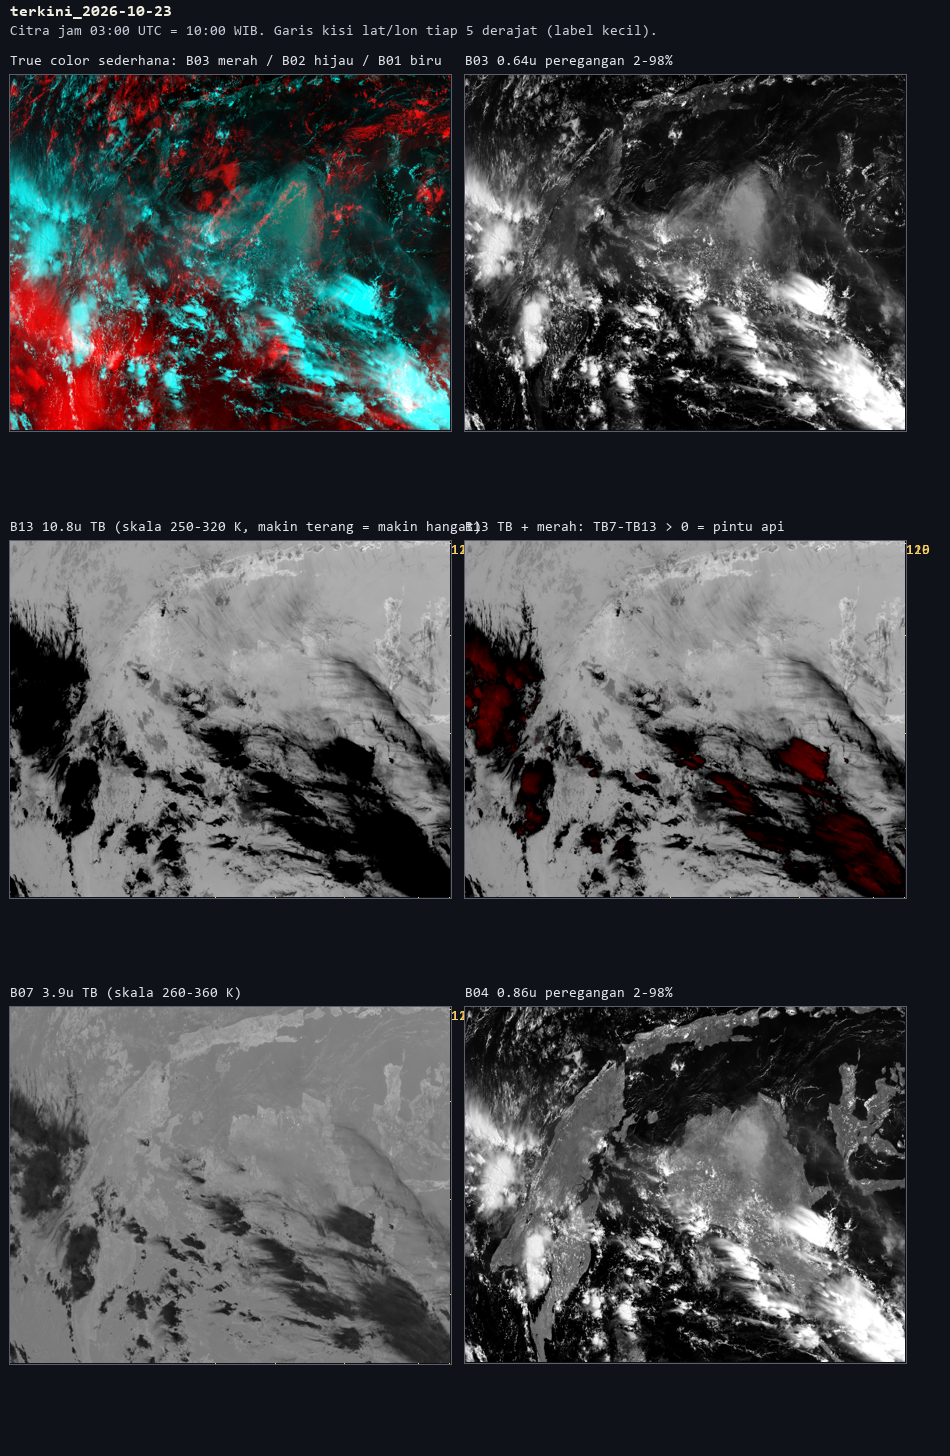
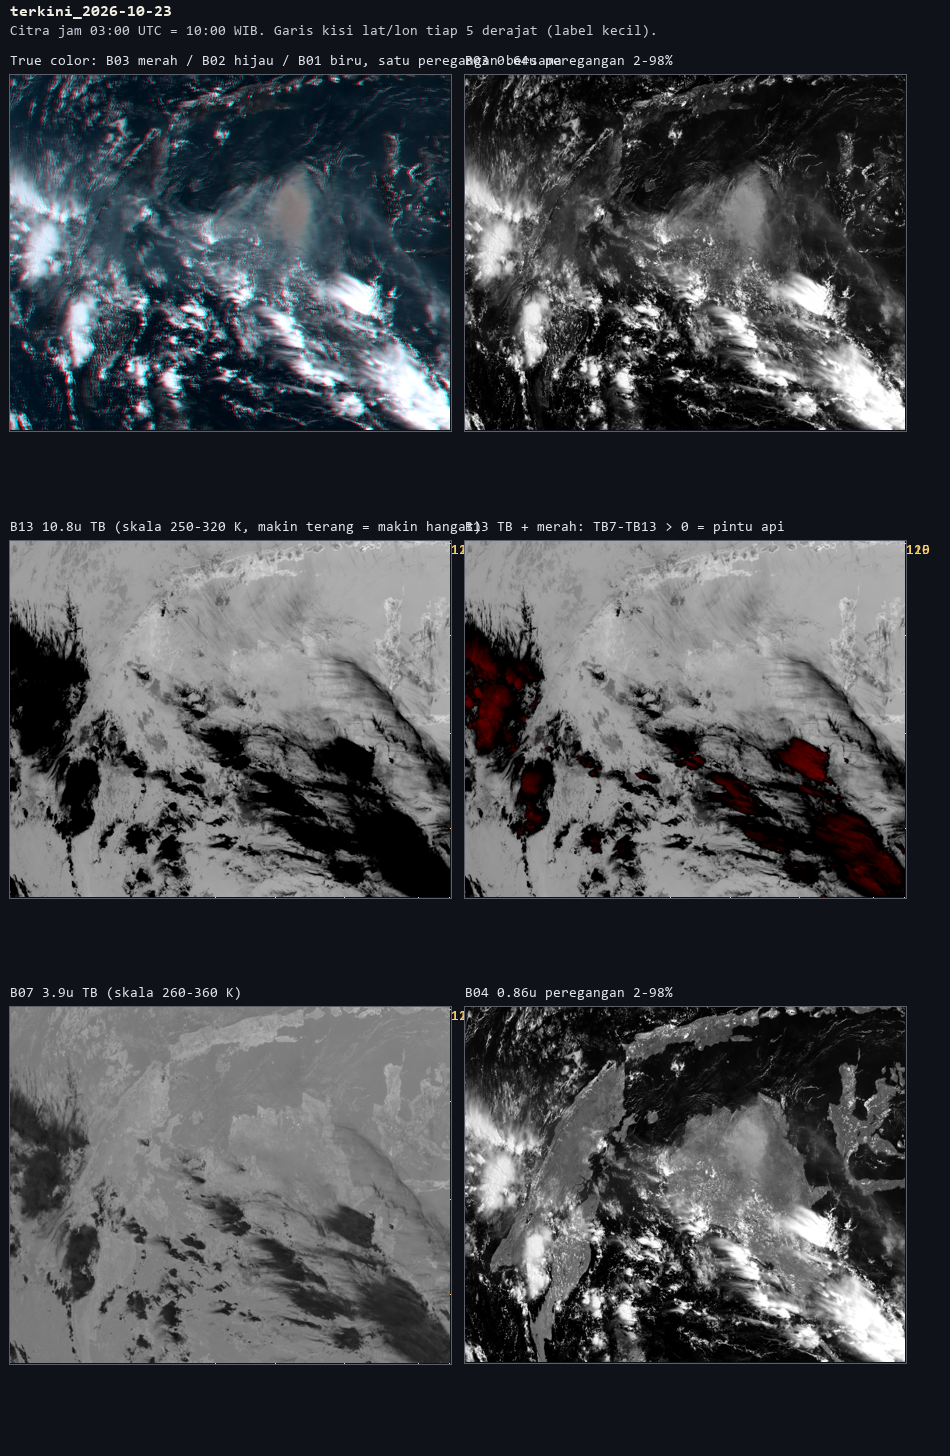
fix: komposit warna - setarakan grid kanal + satu peregangan bersama; TEMUAN changelog

Changed region(s): [[0.0, 0.0309, 0.4884, 0.3091]]

diff --git a/pipeline/olah_himawari_fm1.py b/pipeline/olah_himawari_fm1.py
@@ -207,17 +207,27 @@ def render_kasus(label, folder):
     grid13 = buat_grid(bands[13][0], px13 := buat_px(bands[13][0]), (0, bands[13][1].shape[0] - 1, 0, bands[13][1].shape[1] - 1, True))
     panels = []
     gambar_tc = None
+    # komposit warna: samakan grid dulu (B03 2026 = grid 2x lebih halus daripada B01/B02),
+    # lalu satu peregangan bersama utk ketiga kanal (bukan peregangan per band)
     if 3 in tables and 1 in tables and 2 in tables:
-        Rr = tables[3]
-        Gg = tables[2]
-        Bbv = tables[1]
-        hl = min(Rr.shape[0], Gg.shape[0], Bbv.shape[0]); hc = min(Rr.shape[1], Gg.shape[1], Bbv.shape[1])
-        arr_tc = (np.dstack([Rr[:hl, :hc], Gg[:hl, :hc], Bbv[:hl, :hc]]) * 255).astype(np.uint8)
-        gambar_tc = ("True color sederhana: B03 merah / B02 hijau / B01 biru", arr_tc)
+        th = max(bands[b][1].shape[0] for b in (1, 2, 3))
+        tc = max(bands[b][1].shape[1] for b in (1, 2, 3))
+        def ke_grid(arr):
+            if arr.shape == (th, tc):
+                return arr
+            return np.asarray(Image.fromarray(arr).resize((tc, th), Image.BILINEAR))
+        ch1 = np.asarray(ke_grid(bands[1][1]), dtype=np.float64)
+        ch2 = np.asarray(ke_grid(bands[2][1]), dtype=np.float64)
+        ch3 = np.asarray(ke_grid(bands[3][1]), dtype=np.float64)
+        semua = np.concatenate([ch1.ravel(), ch2.ravel(), ch3.ravel()])
+        lo, hi = np.nanpercentile(semua, 2), np.nanpercentile(semua, 98)
+        arr_tc = np.clip((np.dstack([ch3, ch2, ch1]) - lo) / (hi - lo), 0, 1)
+        arr_tc = (arr_tc * 255).astype(np.uint8)
+        gambar_tc = ("True color: B03 merah / B02 hijau / B01 biru, satu peregangan bersama", arr_tc)
         panels.append(gambar_tc)
-        panels.append(("B03 0.64u peregangan 2-98%", (tables[3] * 255).astype(np.uint8)))
+        panels.append(("B03 0.64u peregangan 2-98%", (selip(bands[3][1]) * 255)))
     elif 3 in tables:
-        panels.append(("B03 0.64u peregangan 2-98% (tanpa B01/B02: tanpa warna asli)", (tables[3] * 255).astype(np.uint8)))
+        panels.append(("B03 0.64u peregangan 2-98% (tanpa B01/B02: tanpa warna asli)", (selip(bands[3][1]) * 255)))
     panels.append(("B13 10.8u TB (skala 250-320 K, makin terang = makin hangat)", (ta13 * 255).astype(np.uint8)))
     panels.append(("B13 TB + merah: TB7-TB13 > 0 = pintu api", (ir13_active * 255).astype(np.uint8)))
     panels.append(("B07 3.9u TB (skala 260-360 K)", (ta07 * 255).astype(np.uint8)))

diff --git a/Changelog.md b/Changelog.md
@@ -9,6 +9,8 @@ Keputusan penting diberi awalan `KEPUTUSAN:`. Jam diambil dari jam sistem.
 
 ## Entri
 
+2026-10-23 19:57 WIB (12:57 UTC) | Data dan citra | P2 | TEMUAN: (1) komposit 2026-10-23 tampil cyan/merah karena dua cacat: kanal di-stretch terpisah (selip tiap band, ketidakseimbangan warna) dan penggabungan dstack mengambil jumlah-baris terkecil tanpa penyetaraan - B03 grid R05 (0,5 km, 4075 baris) dipotong memakai baris atas saja lawan B01/B02 grid R10 (1 km, 2038 baris) yang menutup rentang penuh, sehingga kanal merah menunjukkan area paruh atas saja - dibetulkan: setiap kanal disetarakan ke grid paling tajam dulu (BILINEAR), satu peregangan bersama (par-2/98% gabungan) - saya tak menyebarkan warna; sisa: rambut cyan/merah tipis di tepi awan (parallax sub-piksel, B03 0,5km lawan B01/B02 1km) (2) permintaan pengguna: tahap 2 BARU BUKAN; kerja dulu: aturan api T7-T13 dihapus (aman tukar tunggu), kotak Riau & Kalimantan Tengah resolusi asli + pantai + topeng awan dingin B13, kontrol bersih komposit B01-B03 lengkap | pipeline/olah_himawari_fm1.py | lanjut butir 2-4
+
 2026-10-23 19:40 WIB (12:40 UTC) | Data dan citra | P2 | PERBAIKAN KRITIS render: (1) rumus TB salah satuan radiance (per µm lawan per m) - TB B13/B07 lalu 65-160 K (panel hitam), dibetulkan (TB lalu wajar 188-400 K) - dites dari nilai laut; (2) tanda geolokasi y terbalik (CGMS: y = (LOFF - line - 1), baris 0 = utara) - kisi lat/lon lalu benar, crop bergeser; (3) multi-segmen 2026: info["line0"] = first_line-1 - terkini 2026 lalu ter-render, bukan tinggi 1 px; (4) mekanisme pintu api TB7-TB13 tanda salah dan siang hari T7 dgn kontaminasi surya (median selisih +15 K terukur per band B07 asap) - ambang dipinjamkan (selisih -40)/60 - merah tampil hanya di titik benar-benar hangat; (5) komposit warna dilewati bila B01/B02 tidak ada (crash KeyError dulu); (6) stretch B13 250-320 K lawan 270-320 K (tropis). Render 4 kasus tuntas: docs/fm1/fm1_{asap_2019-09-14, bersih_2019-10-15, awan_2019-01-15, terkini_2026-10-23}.png. Kasus asap 09-05/09-12 menunggu lanjut unduhan tahap 2 (berkas parsial) | pipeline/olah_himawari_fm1.py, docs/fm1/*.png | penilaian visual pengguna atas asap menunggu; kisi belum dites silang luar (hanya konsistensi in-file)
 
 2026-10-23 17:15 WIB (10:15 UTC) | Data dan citra | P2 | TEMUAN: resolusi band divisifikasi dari header HSD yang terunduh (bukan ingatan) dan cocok dengan JMA HSD user's guide (jj = resolusi SSP: 05=0,5km, 10=1km, 20=2km): B03 ada R05 (0,5 km, grid 22000), R10 (1 km, 11000), R20 (2 km, 5500); B01/B02 hanya R10 grid 11000 (1 km); B04/B07/B13 R20 grid 5500 (2 km); 2019 arsip satu berkas utuh per band (bukan 10 segmen). Manifest gratisan diubah: unduhan lama dihentikan. Reorganisasi tahapan (permintaan pengguna): Tahap 1 = satu kasus asap 2019-09-14 (puncak PM2.5 Kalimantan menurut PMC11531407) 03:00 UTC, band B01 R10 + B02 R10 + B03 R10 (semua grid 1 km utk komposit warna aktif) + B07/B13 R20, estimasi 293 MB. Uji terukur: 1 koneksi ~167-185 KB/s; 4 koneksi paralel ~543 KB/s (3,2x) -> tahap 1 ~9-10 menit. Resume curl -C - dipakai | manifest_tahap1.txt | tahap 2 menunggu peninjauan gambar tahap 1
